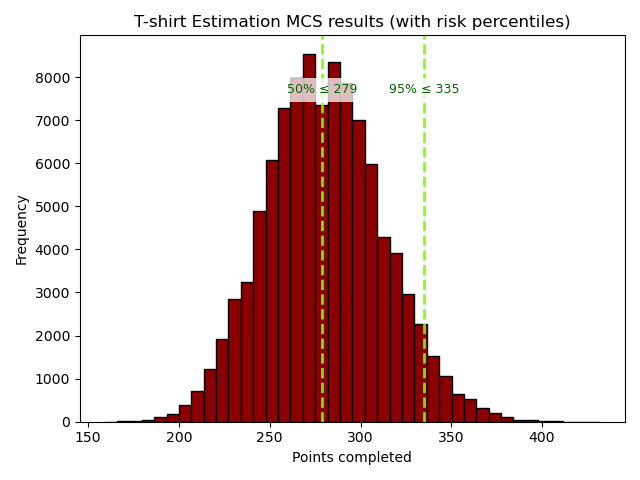
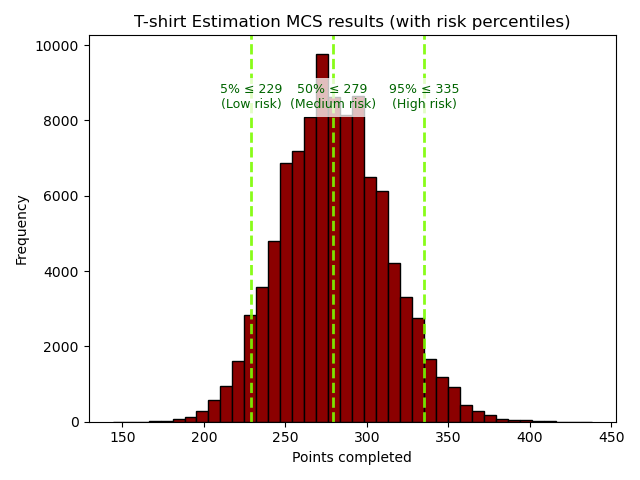
annotate with risk assessment

diff --git a/velocity-estimation.py b/velocity-estimation.py
@@ -28,13 +28,13 @@ def plot_with_risk(results: np.ndarray, save_path="velocity_estimation_results_w
     bins = max(10, len(results) // 2500)
     fig, ax = plt.subplots()
     counts, bin_edges, _ = ax.hist(results, bins=bins, color="#4C72B0", edgecolor="black")
-    percentiles = [50, 95]
-    vals = np.percentile(results, percentiles)
+    risk_levels = {5: "Low", 50: "Medium", 95: "High"}
+    vals = np.percentile(results, list(risk_levels.keys()))
 
     ymax = counts.max() if counts.size else 1
-    for pct, val in zip(percentiles, vals):
+    for ((pct, risk), val) in zip(risk_levels.items(), vals):
         ax.axvline(val, color="lawngreen", linestyle="--", linewidth=2, alpha=0.9)
-        ax.text(val, ymax * 0.92, f"{pct}% ≤ {val:.0f}", color="darkgreen",
+        ax.text(val, ymax * 0.92, f"{pct}% ≤ {val:.0f}\n({risk} risk)", color="darkgreen",
                 ha="center", va="top", fontsize=9, bbox=dict(facecolor="white", alpha=0.75, edgecolor="none"))
 
     ax.set_title("Velocity Estimation MCS results (with risk percentiles)")

diff --git a/t-shirt-estimation.py b/t-shirt-estimation.py
@@ -38,13 +38,13 @@ def plot_with_risk(results: np.ndarray, save_path="t_shirt_estimation_results_wi
     bins = max(10, len(results) // 2500)
     fig, ax = plt.subplots()
     counts, bin_edges, _ = ax.hist(results, bins=bins, color="darkred", edgecolor="black")
-    percentiles = [50, 95]
-    vals = np.percentile(results, percentiles)
+    risk_levels = {5: "Low", 50: "Medium", 95: "High"}
+    vals = np.percentile(results, list(risk_levels.keys()))
 
     ymax = counts.max() if counts.size else 1
-    for pct, val in zip(percentiles, vals):
+    for ((pct, risk), val) in zip(risk_levels.items(), vals):
         ax.axvline(val, color="lawngreen", linestyle="--", linewidth=2, alpha=0.9)
-        ax.text(val, ymax * 0.92, f"{pct}% ≤ {val:.0f}", color="darkgreen",
+        ax.text(val, ymax * 0.92, f"{pct}% ≤ {val:.0f}\n({risk} risk)", color="darkgreen",
                 ha="center", va="top", fontsize=9, bbox=dict(facecolor="white", alpha=0.75, edgecolor="none"))
 
     ax.set_title("T-shirt Estimation MCS results (with risk percentiles)")
